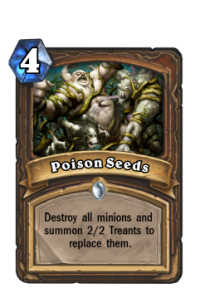
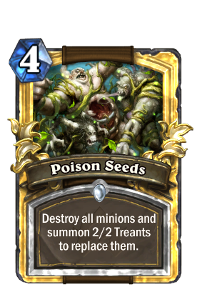
Add Poison seeds and Faceless summoner golden cards. Automate the process of checking missing golden cards.

diff --git a/Sources/mainwindow.cpp b/Sources/mainwindow.cpp
@@ -4241,17 +4241,6 @@ void MainWindow::saveHearthArenaTierlistOriginal(const QByteArray &html)
 }
 
 
-bool MainWindow::checkHeroPortrait(QString code)
-{
-    if(code.isEmpty())  return false;
-
-    QFileInfo cardFile(QDir::homePath() + "/Documentos/ArenaTracker/HearthstoneCards/" + code + ".png");
-
-    if(!cardFile.exists())  return false;
-    return true;
-}
-
-
 void MainWindow::testPlan()
 {
     planHandler->playerMinionZonePlayAdd("AT_003", 1, 1);
@@ -4325,7 +4314,7 @@ void MainWindow::testHeroPortraits()
     bool everythingOk = true;
     for(const QString &code: draftHandler->getAllHeroCodes())
     {
-        if(!checkHeroPortrait(code))
+        if(!Utility::checkHeroPortrait(code))
         {
             qDebug()<<"DEBUG HEROES:" << code << "-" << Utility::cardEnNameFromCode(code) << "missing.";
             everythingOk = false;
@@ -4363,6 +4352,7 @@ void MainWindow::testDelay()
     testHeroPortraits();
     testTierlists();
 //    testSynergies();
+//    Utility::checkMissingGoldenCards();
 //    Utility::resizeGoldenCards();
 }
 
@@ -4492,25 +4482,29 @@ void MainWindow::testDelay()
 
 //TODDO
 
-//Missing golden cards
-//Changed art
-//"EX1_306" : [ "Felstalker" ],
-//"GVG_018" : [ "Queen of Pain" ],
-//"EX1_033" : [ "Windfury Harpy" ],
-//"EX1_080" : [ "Secretkeeper" ],
-//"EX1_570" : [ "Bite" ],
-//"EX1_617" : [ "Deadly Shot" ],
-//"EX1_137" : [ "Headcrack" ],
-//New classic/basic cards
-//"EX1_183" : [ "Gift of the Wild" ],
-//"EX1_184" : [ "Righteousness" ],
-//"EX1_185" : [ "Siegebreaker" ],
-//"EX1_186" : [ "SI:7 Infiltrator" ],
-//"EX1_187" : [ "Arcane Devourer" ],
-//"EX1_188" : [ "Barrens Stablehand" ],
-//"EX1_189" : [ "Brightwing" ],
-//"EX1_190" : [ "High Inquisitor Whitemane" ],
 
+
+//Missing golden cards
+//DEBUG MISSING GOLDEN: "EX1_033" - "Windfury Harpy"
+//DEBUG MISSING GOLDEN: "EX1_080" - "Secretkeeper"
+//DEBUG MISSING GOLDEN: "EX1_137" - "Headcrack"
+//DEBUG MISSING GOLDEN: "EX1_179" - "Icicle"
+//DEBUG MISSING GOLDEN: "EX1_180" - "Tome of Intellect"
+//DEBUG MISSING GOLDEN: "EX1_181" - "Call of the Void"
+//DEBUG MISSING GOLDEN: "EX1_182" - "Pilfer"
+//DEBUG MISSING GOLDEN: "EX1_183" - "Gift of the Wild"
+//DEBUG MISSING GOLDEN: "EX1_184" - "Righteousness"
+//DEBUG MISSING GOLDEN: "EX1_185" - "Siegebreaker"
+//DEBUG MISSING GOLDEN: "EX1_186" - "SI:7 Infiltrator"
+//DEBUG MISSING GOLDEN: "EX1_187" - "Arcane Devourer"
+//DEBUG MISSING GOLDEN: "EX1_188" - "Barrens Stablehand"
+//DEBUG MISSING GOLDEN: "EX1_189" - "Brightwing"
+//DEBUG MISSING GOLDEN: "EX1_190" - "High Inquisitor Whitemane"
+//DEBUG MISSING GOLDEN: "EX1_306" - "Felstalker"
+//DEBUG MISSING GOLDEN: "EX1_570" - "Bite"
+//DEBUG MISSING GOLDEN: "EX1_617" - "Deadly Shot"
+//DEBUG MISSING GOLDEN: "GIL_623" - "Witchwood Grizzly"
+//DEBUG MISSING GOLDEN: "GVG_018" - "Queen of Pain"
 
 
 //1)Specify where are enemy secrets played coming from, like BY: Cabalist's Tome. In case they are generated by other cards.

diff --git a/Sources/utility.cpp b/Sources/utility.cpp
@@ -972,6 +972,49 @@ void Utility::checkTierlistsCount()
 }
 
 
+bool Utility::checkHeroPortrait(QString code)
+{
+    if(code.isEmpty())  return false;
+
+    QFileInfo cardFile(QDir::homePath() + "/Documentos/ArenaTracker/HearthstoneCards/" + code + ".png");
+
+    if(!cardFile.exists())  return false;
+    return true;
+}
+
+
+void Utility::checkMissingGoldenCards()
+{
+    QDir dir(QDir::homePath() + "/Documentos/ArenaTracker/HearthstoneCards");
+    dir.setFilter(QDir::Files);
+    dir.setSorting(QDir::Name);
+    QStringList filterName;
+    filterName << "*.png";
+    dir.setNameFilters(filterName);
+
+    QStringList files = dir.entryList();
+
+    for(int i = 0; i < (files.count()-1); i++)
+    {
+        if(!files[i].endsWith("_premium.png") && files[i+1].endsWith("_premium.png"))
+        {
+            QString code = files[i].left(files[i].length()-4);
+            if(code == files[i+1].left(files[i+1].length()-12))
+            {
+                if(QFileInfo(dir.absoluteFilePath(files[i])).size() == QFileInfo(dir.absoluteFilePath(files[i+1])).size())
+                {
+                    qDebug()<<"DEBUG MISSING GOLDEN:" << code << "-" << Utility::cardEnNameFromCode(code);
+                }
+            }
+            else
+            {
+                qDebug()<<"DEBUG MISSING GOLDEN: ERROR: Files missing"<<files[i]<<files[i+1];
+            }
+        }
+    }
+}
+
+
 //Whizband Decks
 QString Utility::whizbangDeckString(QString code)
 {

diff --git a/Sources/mainwindow.h b/Sources/mainwindow.h
@@ -225,7 +225,6 @@ private:
     void saveCardmapLightForgeOriginal(const QByteArray &jsonData);
     void downloadHearthArenaTierlistOriginal();
     void saveHearthArenaTierlistOriginal(const QByteArray &html);
-    bool checkHeroPortrait(QString code);
 
 //Override events
 protected:

diff --git a/Sources/utility.h b/Sources/utility.h
@@ -132,6 +132,8 @@ public:
     static void checkTierlistsCount();
     static bool hasGoldenImage(QString code);
     static void resizeGoldenCards();
+    static bool checkHeroPortrait(QString code);
+    static void checkMissingGoldenCards();
 };
 
 #endif // UTILITY_H
